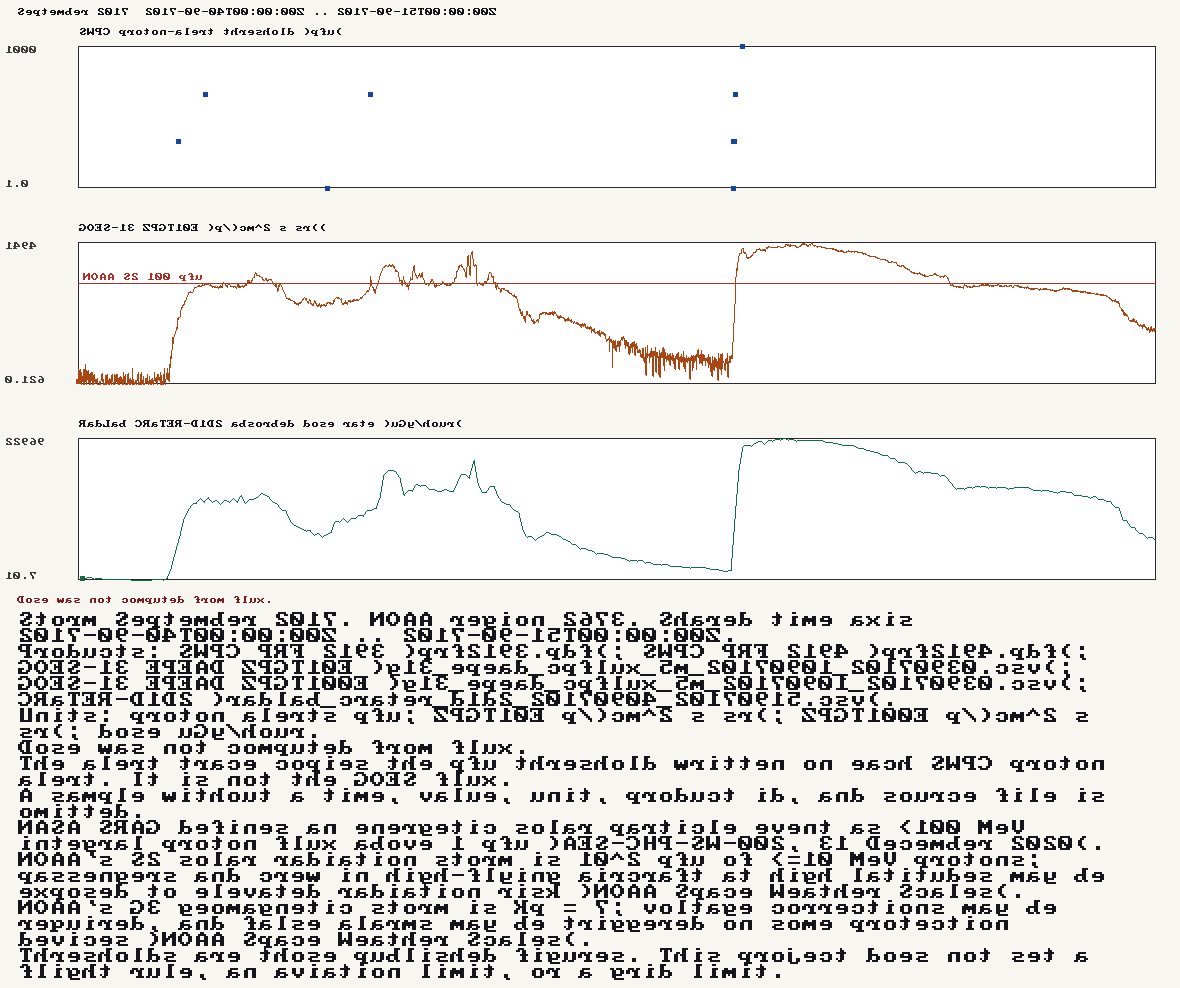
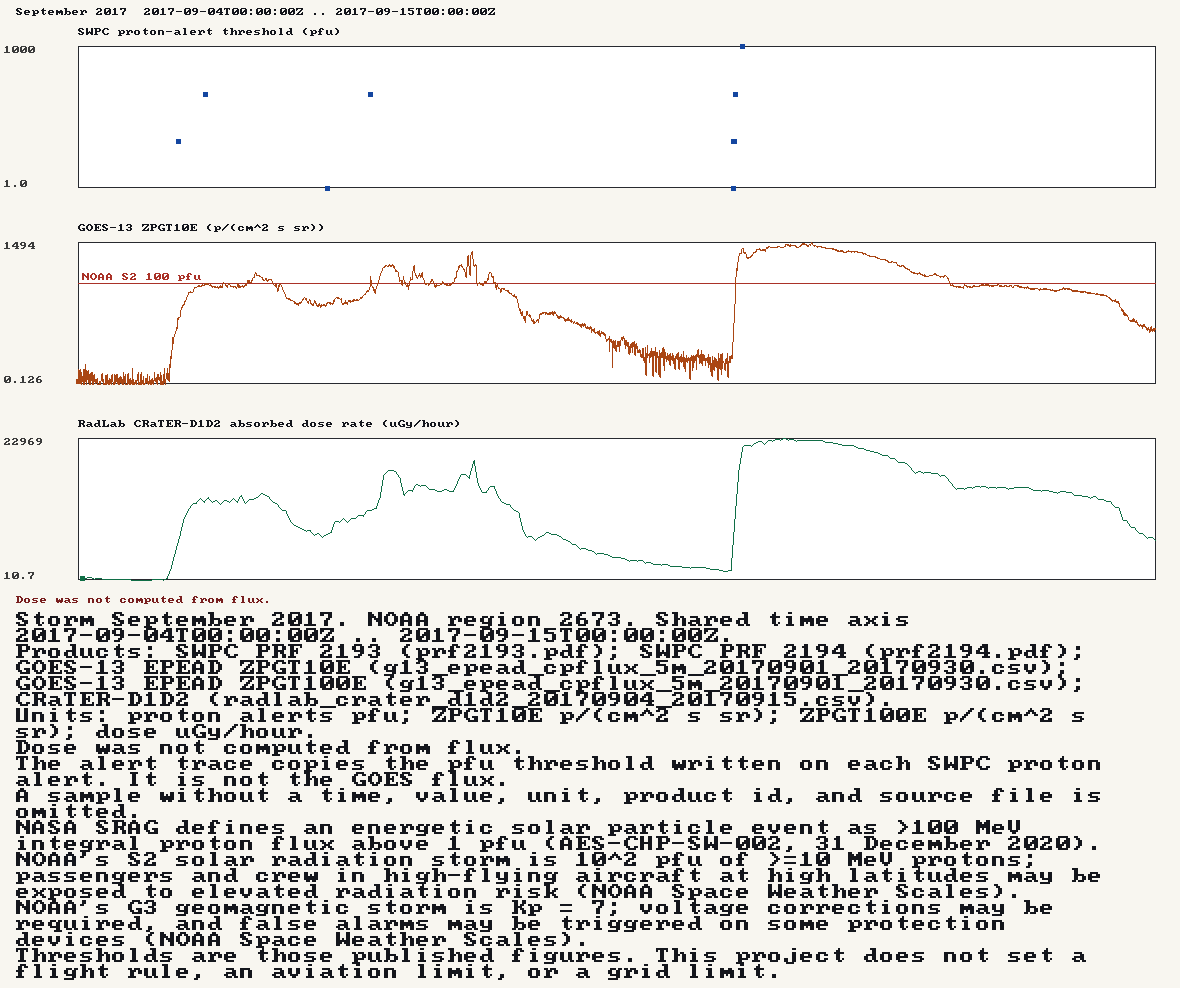
Name the K>=7 warning as a valid period, and unmirror the figure.
Issued geomagnetic alerts stay point times. K below 7 inside that warning is listed from the same file. Font glyphs are drawn LSB-left.

diff --git a/space-weather/tests/test_storm.py b/space-weather/tests/test_storm.py
@@ -7,7 +7,8 @@ from datetime import datetime, timedelta, timezone
 from pathlib import Path
 
 from weather.assemble import DOSE_NOT_FROM_FLUX, WINDOW_END, WINDOW_START, assemble
-from weather.figure import read_method, render
+from weather.figure import Canvas, read_method, render
+from weather.font8x8 import FONT
 from weather.parse import Alert, Point, dose_unit, parse_alert_pdf, parse_dose, parse_goes, traced_point
 from weather.storm import ALERT_NAMES, DOSE_NAME, GOES_NAME, RAW, UNIT_NAME, build_report
 
@@ -27,8 +28,11 @@ class AssemblyTests(unittest.TestCase):
             return Point(start + timedelta(minutes=minutes), value, unit, product, source)
 
         alerts = [
-            Alert("proton", start + timedelta(minutes=10), None, 10.0, ">=", "10MeV", "pfu", "SWPC PRF 0001", "alert.pdf"),
-            Alert("geomagnetic", start + timedelta(hours=1), start + timedelta(hours=3), 7.0, ">=", "K", "K", "SWPC PRF 0001", "alert.pdf"),
+            Alert("proton", start + timedelta(minutes=10), None, 10.0, ">=", "10MeV", "pfu", "SWPC PRF 0001", "alert.pdf", "alert"),
+            Alert("geomagnetic", start + timedelta(hours=1), start + timedelta(hours=3), 7.0, ">=", "K", "K", "SWPC PRF 0001", "alert.pdf", "extended warning"),
+            Alert("geomagnetic", start + timedelta(minutes=70), None, 8.0, "=", "K", "K", "SWPC PRF 0001", "alert.pdf", "alert"),
+            Alert("geomagnetic", start + timedelta(hours=2), None, 5.0, "=", "K", "K", "SWPC PRF 0001", "alert.pdf", "alert"),
+            Alert("geomagnetic", start + timedelta(minutes=150), None, 7.0, "=", "K", "K", "SWPC PRF 0001", "alert.pdf", "alert"),
         ]
         gt10 = [
             at(0, 50.0, "GOES-13 EPEAD ZPGT10E", "p/(cm^2 s sr)", "goes.csv"),
@@ -66,8 +70,20 @@ class AssemblyTests(unittest.TestCase):
         self.assertEqual(len(report.sentences), 3)
         self.assertIn("1 pfu", report.sentences[0])
         self.assertIn("100 pfu", report.sentences[1])
-        self.assertIn("Kp = 7", report.sentences[2])
-        self.assertIn("2 hours", report.sentences[2])
+        grid = report.sentences[2]
+        self.assertIn("Kp = 7", grid)
+        self.assertIn("2 hours", grid)
+        self.assertIn("issued-alert times, not a continuous interval", grid)
+        self.assertIn("extended warning valid from", grid)
+        self.assertIn("not an observed stretch of K at or above 7", grid)
+        self.assertNotIn("was at or above", grid)
+        self.assertIn(f"{_iso(start + timedelta(minutes=70))} (K = 8)", grid)
+        self.assertIn(f"{_iso(start + timedelta(hours=2))} (K = 5)", grid)
+        self.assertIn(f"{_iso(start + timedelta(minutes=150))} (K = 7)", grid)
+        self.assertIn(
+            f"valid from {_iso(start + timedelta(hours=1))} to {_iso(start + timedelta(hours=3))}",
+            grid,
+        )
         self.assertIn(DOSE_NOT_FROM_FLUX, report.text)
         self.assertIn(report.method, report.text)
         zeroed = assemble(
@@ -127,10 +143,54 @@ class AssemblyTests(unittest.TestCase):
             self.assertIn("2017-09-04T00:00:00Z .. 2017-09-15T00:00:00Z", sentence)
         self.assertIn("1 pfu", report.sentences[0])
         self.assertIn("100 pfu", report.sentences[1])
-        self.assertIn("Kp = 7", report.sentences[2])
-        self.assertIn("2017-09-07T23:00:00Z", report.sentences[2])
-        self.assertIn("2017-09-08T21:00:00Z", report.sentences[2])
-        self.assertLess(report.sentences[2].index("2017-09-07T23:00:00Z"), report.sentences[2].index("2017-09-08T21:00:00Z"))
+        grid = report.sentences[2]
+        self.assertIn("Kp = 7", grid)
+        self.assertIn("issued-alert times, not a continuous interval", grid)
+        self.assertIn("not an observed stretch of K at or above 7", grid)
+        self.assertNotIn("was at or above", grid)
+        observed = [
+            alert for alert in alerts
+            if alert.kind == "geomagnetic" and alert.role == "alert" and alert.end is None
+            and alert.value is not None and alert.value >= 7
+            and alert.start is not None and WINDOW_START <= alert.start < WINDOW_END
+        ]
+        self.assertGreater(len(observed), 0)
+        self.assertIn(f"{len(observed)} geomagnetic K alerts at or above 7", grid)
+        for alert in observed:
+            self.assertIn(f"{_iso(alert.start)} (K = {int(alert.value)})", grid)
+        warnings = [
+            alert for alert in alerts
+            if alert.kind == "geomagnetic" and alert.role in ("warning", "extended warning")
+            and alert.value is not None and alert.value >= 7
+            and alert.start is not None and alert.end is not None and alert.end > alert.start
+            and WINDOW_START <= alert.start < WINDOW_END and WINDOW_START <= alert.end <= WINDOW_END
+        ]
+        warning = min(
+            warnings,
+            key=lambda alert: (
+                -(alert.end - alert.start).total_seconds(),
+                alert.start,
+                -alert.value,
+                alert.product_id,
+                alert.source_file,
+            ),
+        )
+        self.assertIn(
+            f"{warning.role} valid from {_iso(warning.start)} to {_iso(warning.end)}",
+            grid,
+        )
+        below = [
+            alert for alert in alerts
+            if alert.kind == "geomagnetic" and alert.role == "alert" and alert.end is None
+            and alert.value is not None and alert.value < 7
+            and alert.start is not None and warning.start < alert.start < warning.end
+            and alert.source_file == warning.source_file
+        ]
+        self.assertGreater(len(below), 0)
+        self.assertIn("records K below 7 inside that valid period", grid)
+        for alert in below:
+            self.assertIn(f"{_iso(alert.start)} (K = {int(alert.value)})", grid)
+        self.assertLess(grid.index("issued-alert times"), grid.index("valid period"))
         joined = "\n".join(report.sentences)
         self.assertNotIn("99999", joined)
         render(report, OUT)
@@ -142,6 +202,20 @@ class AssemblyTests(unittest.TestCase):
             self.assertEqual(OUT.read_bytes(), first)
         finally:
             OUT.unlink(missing_ok=True)
+
+    def test_font_draws_lsb_on_the_left(self):
+        canvas = Canvas(16, 8)
+        canvas.fill((255, 255, 255))
+        canvas.text(0, 0, "S", (0, 0, 0), 1)
+        glyph = FONT[ord("S")]
+        for row, bits in enumerate(glyph):
+            for col in range(8):
+                dark = canvas.pixels[(row * canvas.width + col) * 3] < 128
+                self.assertEqual(dark, bool(bits & (1 << col)))
+
+
+def _iso(moment) -> str:
+    return moment.strftime("%Y-%m-%dT%H:%M:%SZ")
 
 
 if __name__ == "__main__":

diff --git a/space-weather/weather/assemble.py b/space-weather/weather/assemble.py
@@ -60,14 +60,14 @@ def assemble(
 ) -> Report:
     kept_alerts = [item for item in alerts if traced_alert(item) and _alert_in_window(item, window_start, window_end)]
     proton_alerts = tuple(sorted((item for item in kept_alerts if item.kind == "proton"), key=_alert_key))
-    grid_alert = _grid_alert(kept_alerts, window_start, window_end)
+    grid_alert = _grid_warning(kept_alerts, window_start, window_end)
     gt10 = _keep_points(proton_gt10, window_start, window_end)
     gt100 = _keep_points(proton_gt100, window_start, window_end)
     kept_dose = _keep_points(dose, window_start, window_end)
     sentences = (
         _crew_sentence(gt100, window_start, window_end, kept_dose),
         _polar_sentence(gt10, window_start, window_end),
-        _grid_sentence(grid_alert, window_start, window_end),
+        _grid_sentence(kept_alerts, window_start, window_end),
     )
     method = _method(storm, window_start, window_end, active_region, proton_alerts, gt10, gt100, kept_dose)
     text = _text(storm, window_start, window_end, active_region, proton_alerts, gt10, gt100, kept_dose, sentences, method)
@@ -106,22 +106,36 @@ def _alert_key(alert: Alert) -> tuple:
     return (alert.start, alert.end or alert.start, alert.channel, alert.value, alert.product_id, alert.source_file)
 
 
-def _grid_alert(alerts: list[Alert], start: datetime, end: datetime) -> Alert | None:
+def _grid_warning(alerts: list[Alert], start: datetime, end: datetime) -> Alert | None:
     candidates = []
     for alert in alerts:
-        if alert.kind != "geomagnetic" or alert.end is None or alert.value is None:
+        if alert.kind != "geomagnetic" or alert.role not in ("warning", "extended warning"):
             continue
-        if alert.value < GRID_THRESHOLD_K:
+        if alert.end is None or alert.start is None or alert.value is None:
+            continue
+        if alert.value < GRID_THRESHOLD_K or alert.end <= alert.start:
             continue
         if not (start <= alert.start < end and start <= alert.end <= end):
-            continue
-        if alert.end <= alert.start:
             continue
         candidates.append(alert)
     if not candidates:
         return None
     candidates.sort(key=lambda alert: (-(alert.end - alert.start).total_seconds(), alert.start, -alert.value, alert.product_id, alert.source_file))
     return candidates[0]
+
+
+def _observed_grid(alerts: list[Alert], start: datetime, end: datetime) -> list[Alert]:
+    observed = []
+    for alert in alerts:
+        if alert.kind != "geomagnetic" or alert.role != "alert" or alert.end is not None:
+            continue
+        if alert.start is None or alert.value is None or alert.value < GRID_THRESHOLD_K:
+            continue
+        if not start <= alert.start < end:
+            continue
+        observed.append(alert)
+    observed.sort(key=lambda alert: (alert.start, -alert.value, alert.product_id, alert.source_file))
+    return observed
 
 
 def _crew_sentence(points: tuple[Point, ...], start: datetime, end: datetime, dose: tuple[Point, ...]) -> str:
@@ -151,21 +165,64 @@ def _polar_sentence(points: tuple[Point, ...], start: datetime, end: datetime) -
     )
 
 
-def _grid_sentence(alert: Alert | None, start: datetime, end: datetime) -> str:
+def _grid_sentence(alerts: list[Alert], start: datetime, end: datetime) -> str:
     window = _span(start, end)
-    if alert is None or alert.start is None or alert.end is None or alert.value is None:
+    observed = _observed_grid(alerts, start, end)
+    warning = _grid_warning(alerts, start, end)
+    if not observed and warning is None:
         return (
-            f"For electrical-grid operators, no geomagnetic K alert at or above "
-            f"{_k_text(GRID_THRESHOLD_K)} with both ends inside the storm window {window} "
+            f"For electrical-grid operators, no issued geomagnetic K alert at or above "
+            f"{_k_text(GRID_THRESHOLD_K)} inside the storm window {window} "
             f"is in the frozen alert files. {GRID_CITATION}."
         )
-    duration = _elapsed(alert.start, alert.end)
-    comparator = "at or above" if alert.comparator == ">=" else "equal to"
+    clauses: list[str] = []
+    if observed:
+        clauses.append(_observed_grid_clause(observed, window))
+    if warning is not None:
+        clauses.append(_warning_clause(warning, alerts))
+    clauses.append(f"{GRID_CITATION}.")
+    return "For electrical-grid operators, " + " ".join(clauses)
+
+
+def _observed_grid_clause(observed: list[Alert], window: str) -> str:
+    lead = observed[0]
+    times = ", ".join(f"{_iso(alert.start)} (K = {_k_text(alert.value)})" for alert in observed)
     return (
-        f"For electrical-grid operators, {alert.product_id} in {alert.source_file} "
-        f"warns that the geomagnetic K-index was {comparator} {_k_text(alert.value)} "
-        f"from {_iso(alert.start)} to {_iso(alert.end)} ({duration}), inside the storm window {window}. "
-        f"{GRID_CITATION}."
+        f"{lead.product_id} in {lead.source_file} records {len(observed)} geomagnetic K alerts "
+        f"at or above {_k_text(GRID_THRESHOLD_K)} inside the storm window {window}: {times}. "
+        f"These are issued-alert times, not a continuous interval."
+    )
+
+
+def _k_below_inside(alerts: list[Alert], warning: Alert) -> list[Alert]:
+    below = []
+    for alert in alerts:
+        if alert.kind != "geomagnetic" or alert.role != "alert" or alert.end is not None:
+            continue
+        if alert.source_file != warning.source_file or alert.start is None or alert.value is None:
+            continue
+        if alert.value >= GRID_THRESHOLD_K:
+            continue
+        if warning.start < alert.start < warning.end:
+            below.append(alert)
+    below.sort(key=lambda alert: (alert.start, alert.value, alert.product_id))
+    return below
+
+
+def _warning_clause(alert: Alert, alerts: list[Alert]) -> str:
+    comparator = "at or above" if alert.comparator == ">=" else "equal to"
+    article = "an" if alert.role[:1] in "aeiou" else "a"
+    below = _k_below_inside(alerts, alert)
+    listed = ", ".join(f"{_iso(item.start)} (K = {_k_text(item.value)})" for item in below)
+    recorded = ""
+    if listed:
+        recorded = f" The same file records K below 7 inside that valid period: {listed}."
+    return (
+        f"{alert.product_id} in {alert.source_file} gives {article} {alert.role} valid "
+        f"from {_iso(alert.start)} to {_iso(alert.end)} ({_elapsed(alert.start, alert.end)}) "
+        f"for K {comparator} {_k_text(alert.value)}. "
+        f"That span is the warning's valid period, not an observed stretch of K at or above "
+        f"{_k_text(GRID_THRESHOLD_K)}.{recorded}"
     )
 
 

diff --git a/space-weather/weather/parse.py b/space-weather/weather/parse.py
@@ -16,6 +16,7 @@ _RANGE = re.compile(r"(\d{2})/(\d{4})\s*-\s*(?:(\d{2})/)?(\d{4})")
 _MOMENT = re.compile(r"(\d{2})/(\d{4})")
 _PROTON = re.compile(r"(>=|>)\s*(\d+)\s*pfu", re.IGNORECASE)
 _KINDEX = re.compile(r"K\s*(>=|=)\s*(\d)(?!\d)")
+_ROLE = re.compile(r"(EXTENDED WARNING|WARNING|ALERT|SUMMARY|WATCH|CANCELLATION)\s*:")
 _PRF = re.compile(r"SWPC PRF (\d{4})")
 _YEAR = re.compile(r"September 2017")
 
@@ -40,6 +41,7 @@ class Alert:
     unit: str
     product_id: str
     source_file: str
+    role: str = ""
 
 
 def traced_point(point: Point) -> bool:
@@ -91,6 +93,7 @@ def parse_alert_pdf(data: bytes, source_file: str) -> list[Alert]:
 
 def _alerts_in_block(block: str, product_id: str, source_file: str) -> list[Alert]:
     start, end = _event_span(block)
+    role = _role(block)
     found: list[Alert] = []
     if "Proton" in block and "MeV" in block:
         channel = "100MeV" if "100MeV" in block.replace(" ", "") or "100 MeV" in block else ""
@@ -111,6 +114,7 @@ def _alerts_in_block(block: str, product_id: str, source_file: str) -> list[Aler
                     unit="pfu",
                     product_id=product_id,
                     source_file=source_file,
+                    role=role,
                 )
             )
     kmatch = _KINDEX.search(block)
@@ -126,9 +130,15 @@ def _alerts_in_block(block: str, product_id: str, source_file: str) -> list[Aler
                 unit="K",
                 product_id=product_id,
                 source_file=source_file,
+                role=role,
             )
         )
     return found
+
+
+def _role(block: str) -> str:
+    match = _ROLE.search(block)
+    return match.group(1).lower() if match else ""
 
 
 def _event_span(block: str) -> tuple[datetime | None, datetime | None]:

diff --git a/space-weather/weather/figure.py b/space-weather/weather/figure.py
@@ -223,7 +223,7 @@ class Canvas:
             glyph = FONT[ord(character)] if 0 <= ord(character) < 128 else FONT[32]
             for row, bits in enumerate(glyph):
                 for col in range(8):
-                    if bits & (1 << (7 - col)):
+                    if bits & (1 << col):
                         for sy in range(scale):
                             for sx in range(scale):
                                 self.set(cursor + col * scale + sx, y + row * scale + sy, color)

diff --git a/space-weather/weather/font8x8.py b/space-weather/weather/font8x8.py
@@ -1,5 +1,5 @@
 # Public-domain 8x8 glyphs, U+0000 through U+007F.
-# Daniel Hepper, from the IBM VGA font. MSB is the left pixel.
+# Daniel Hepper, from the IBM VGA font. LSB is the left pixel.
 FONT = (
     (0x00, 0x00, 0x00, 0x00, 0x00, 0x00, 0x00, 0x00),
     (0x00, 0x00, 0x00, 0x00, 0x00, 0x00, 0x00, 0x00),

diff --git a/space-weather/README.md b/space-weather/README.md
@@ -20,7 +20,7 @@ The three sentences use thresholds those audiences already publish:
 
 - Crew beyond low Earth orbit: NASA SRAG's energetic solar particle event, >100 MeV integral flux above 1 pfu (AES-CHP-SW-002, 31 December 2020).
 - Polar flight: NOAA's S2 solar radiation storm, 10^2 pfu of >=10 MeV protons.
-- Grid operators: NOAA's G3 geomagnetic storm, Kp = 7.
+- Grid operators: NOAA's G3 geomagnetic storm, Kp = 7. The grid sentence lists issued K alerts at or above 7, and it names the longest K>=7 warning as that warning's valid period. It does not treat the warning as a stretch of observed K.
 
 Dose on the figure is the CRaTER-D1D2 column copied from the RadLab file. Dose was not computed from flux.
 
